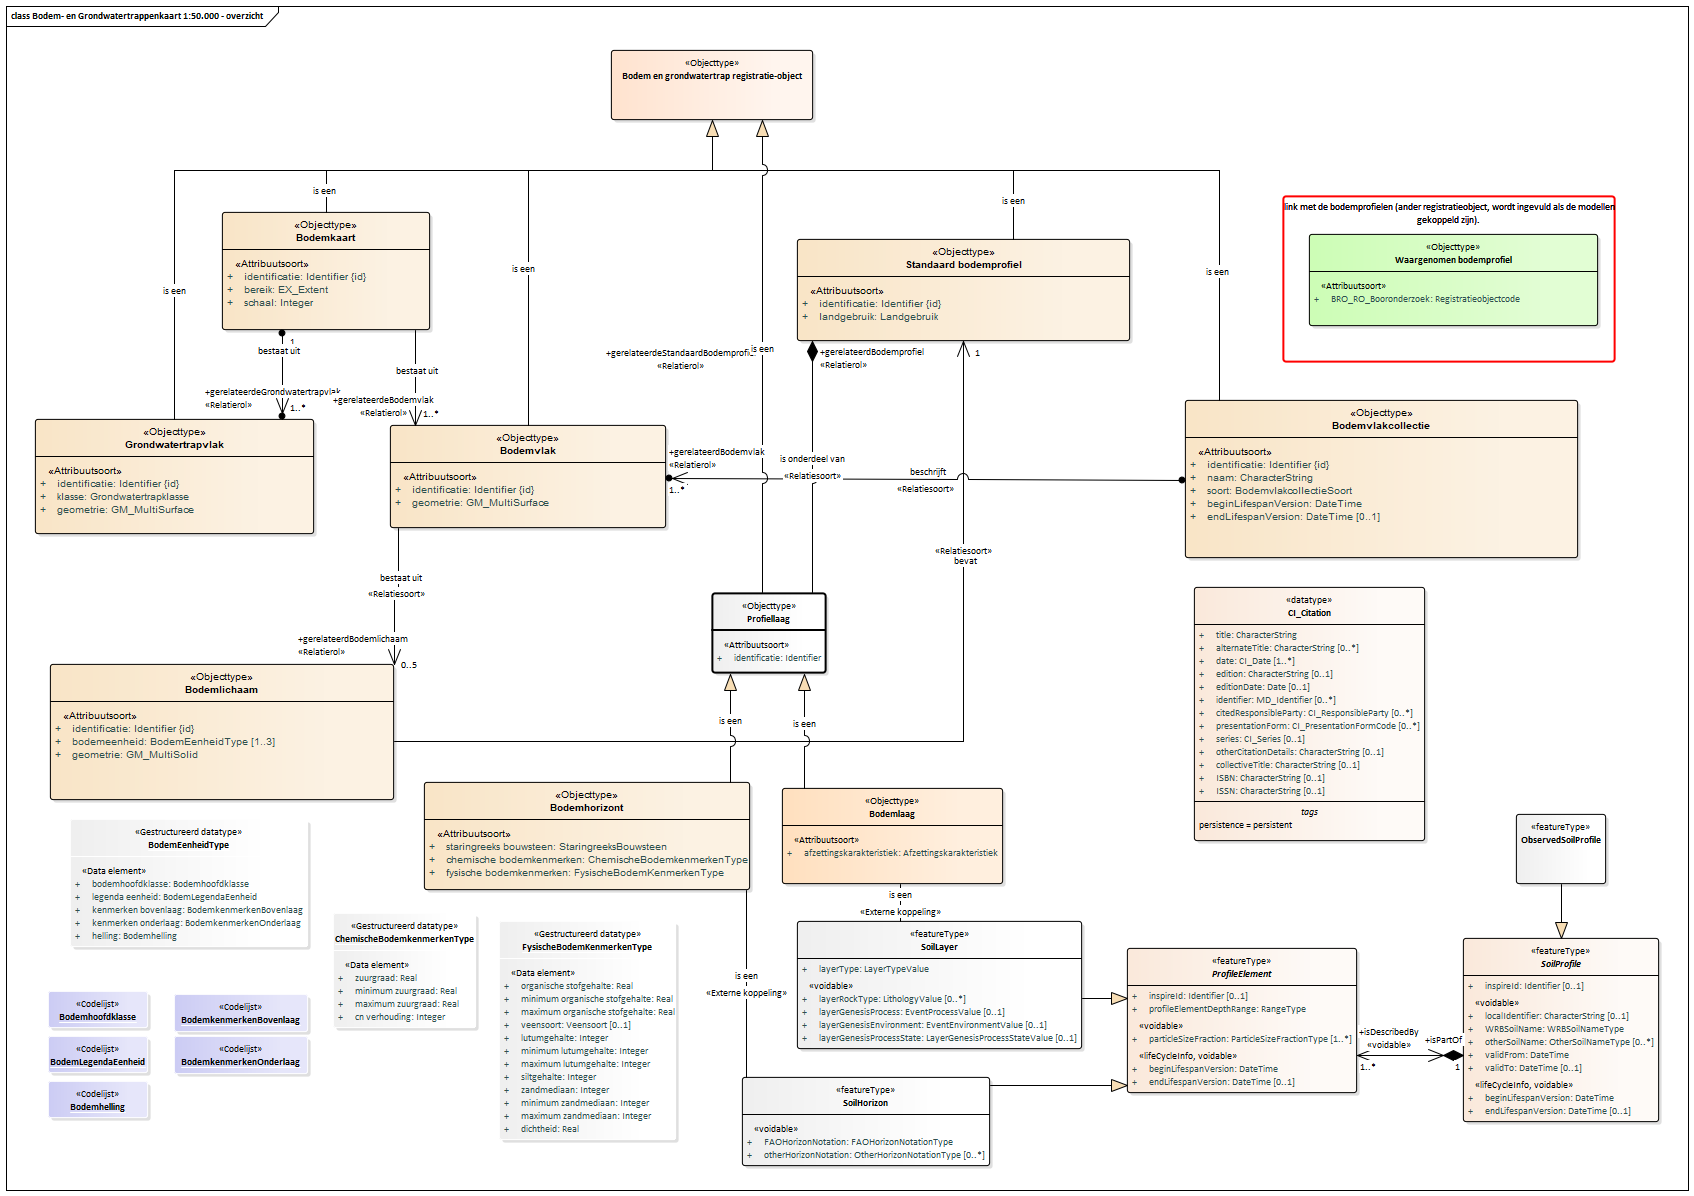
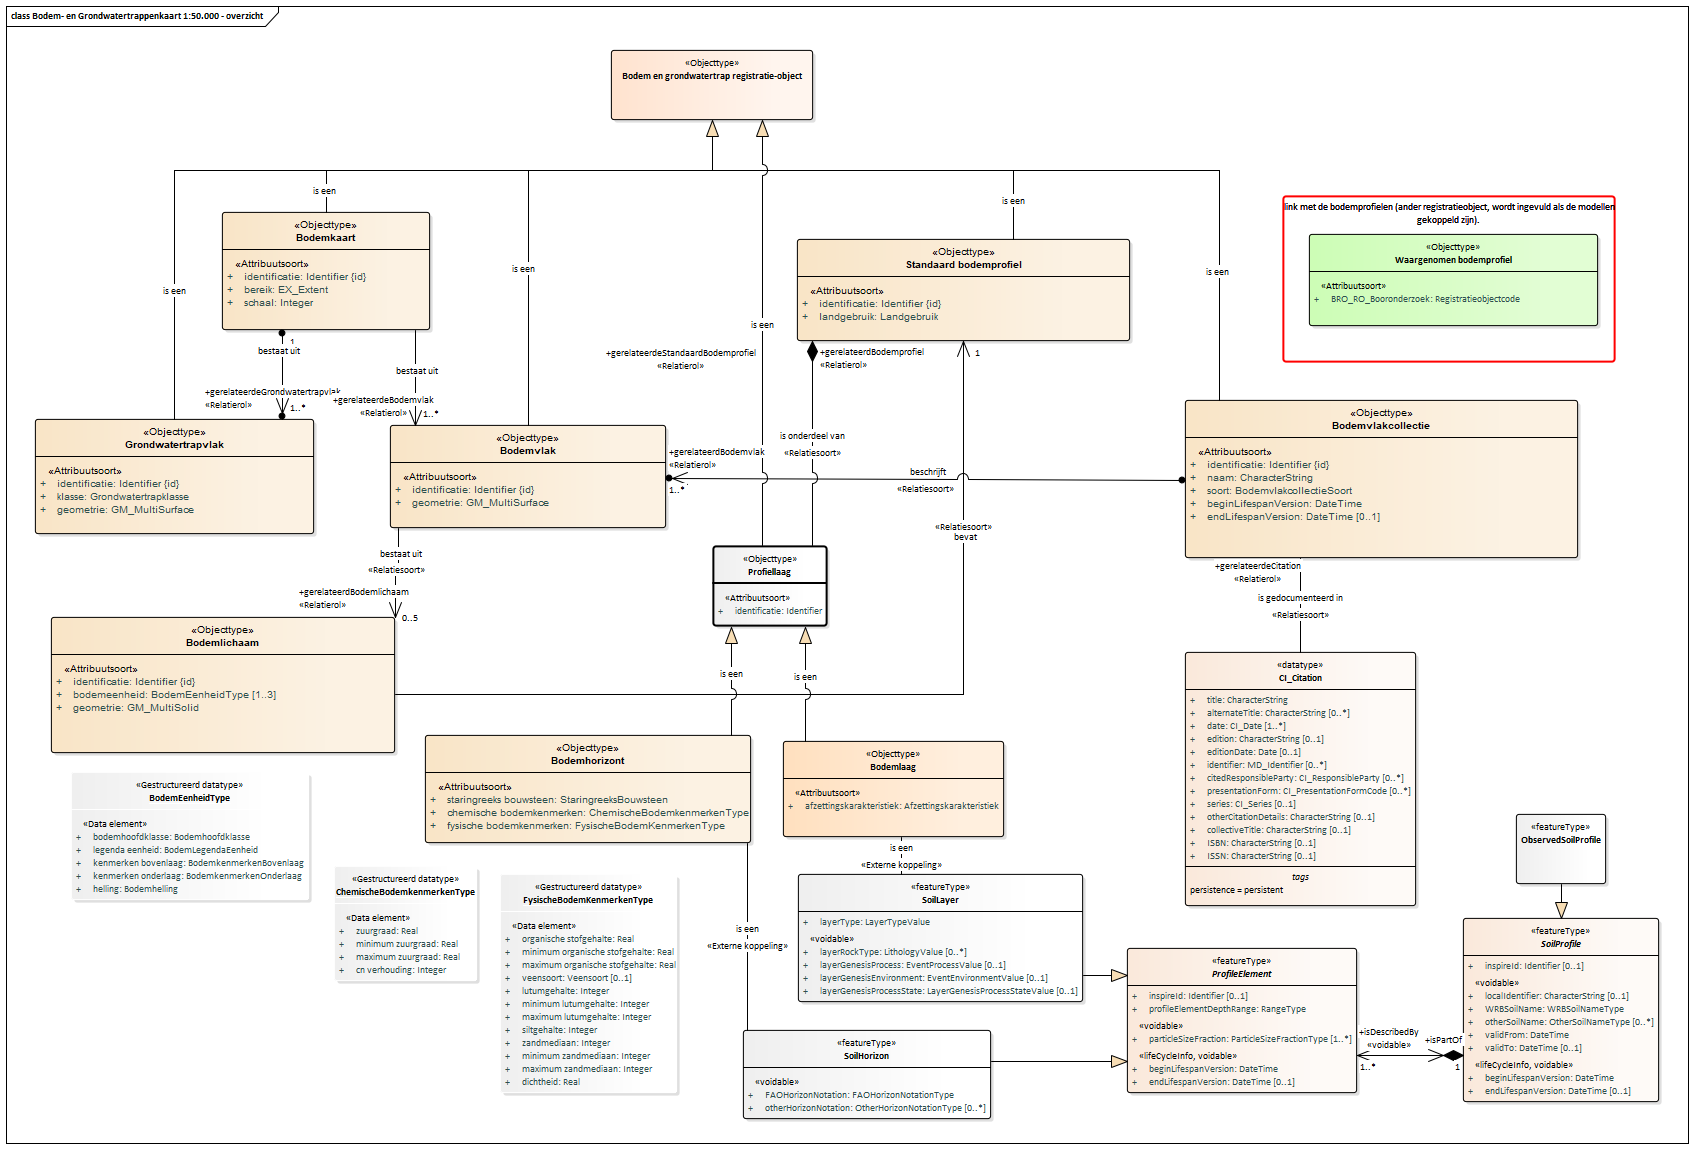
Conceptualmodel-Bodem-enGrondwatertrappenkaartSGM-1.0-1-20180806-20180925-211039

diff --git a/data/SGM-cat.html b/data/SGM-cat.html
@@ -1,31 +1,26 @@
 <h2>Catalogus</h2>
 <p class="note" title="Over deze catalogus">
    Deze catalogus is automatisch samengesteld op basis van het UML model 
-   "Bodem- en Grondwatertrappenkaart (SGM)" door Imvertor 1.47.2 op September 25, 2018 at 19:05:55.
+   "Bodem- en Grondwatertrappenkaart (SGM)" door Imvertor 1.47.2 op September 25, 2018 at 19:10:37.
    <br>
    Wanneer je technische fouten of onvolkomenheden aantreft, geef dit dan door aan <i></i> en geef de code 
-   <i>"Conceptualmodel-Bodem-enGrondwatertrappenkaartSGM-1.0-1-20180806-20180925-210557"</i> door. 
+   <i>"Conceptualmodel-Bodem-enGrondwatertrappenkaartSGM-1.0-1-20180806-20180925-211039"</i> door. 
    
 </p><a class="anchor" name="global_package_Model"></a><section id="global_package_Model">
    <h3>Domein Model</h3>
    <div class="imageinfo overview"><img src="data/Images/EAID_6F1DEB4D_0857_407f_96D1_68CEB4BA18C6.png" usemap="#imagemap-EAID_6F1DEB4D_0857_407f_96D1_68CEB4BA18C6"><map name="imagemap-EAID_6F1DEB4D_0857_407f_96D1_68CEB4BA18C6">
-         <area shape="rect" coords="712,673,826,593" alt="" href="#graph_EAID_0A1B4464_10D3_4b80_8F56_64ECFF79B2BF">
-         <area shape="rect" coords="499,1140,676,921" alt="" href="#graph_EAID_7487B6E9_2821_4136_A6BD_45BCC55D08C4">
-         <area shape="rect" coords="333,1028,476,913" alt="" href="#graph_EAID_E7CD7773_A9F8_46e0_87D3_D98930256054">
-         <area shape="rect" coords="70,947,308,819" alt="" href="#graph_EAID_851EC4B0_D56E_4be9_A97B_2603C79F70A0">
+         <area shape="rect" coords="713,626,827,546" alt="" href="#graph_EAID_0A1B4464_10D3_4b80_8F56_64ECFF79B2BF">
+         <area shape="rect" coords="500,1093,677,874" alt="" href="#graph_EAID_7487B6E9_2821_4136_A6BD_45BCC55D08C4">
+         <area shape="rect" coords="334,981,477,866" alt="" href="#graph_EAID_E7CD7773_A9F8_46e0_87D3_D98930256054">
+         <area shape="rect" coords="71,900,309,772" alt="" href="#graph_EAID_851EC4B0_D56E_4be9_A97B_2603C79F70A0">
          <area shape="rect" coords="611,120,813,50" alt="" href="#graph_EAID_5403E30C_F3F4_4c09_907F_D48BE501C19C">
-         <area shape="rect" coords="48,1118,148,1081" alt="" href="#graph_EAID_155A6898_3C52_4f50_BEEA_5E0FCA823AEB">
-         <area shape="rect" coords="174,1032,308,994" alt="" href="#graph_EAID_21FF9CA4_F85D_4d76_B3FC_6AD3B00C742C">
-         <area shape="rect" coords="174,1074,308,1036" alt="" href="#graph_EAID_5463CF56_01BC_4f0c_88A7_11F479050C47">
-         <area shape="rect" coords="48,1073,148,1036" alt="" href="#graph_EAID_A496AF46_D3AE_4400_8138_91E0BEFFB6A6">
-         <area shape="rect" coords="48,1028,148,991" alt="" href="#graph_EAID_195648A8_101B_4368_86F9_28E280667479">
-         <area shape="rect" coords="782,884,1003,788" alt="" href="#graph_EAID_D6147D13_A2CE_4eac_846C_D98CF51FC411">
-         <area shape="rect" coords="424,890,750,782" alt="" href="#graph_EAID_51B920BD_F7BA_420b_8BC2_F95666441BBE">
+         <area shape="rect" coords="783,837,1004,741" alt="" href="#graph_EAID_D6147D13_A2CE_4eac_846C_D98CF51FC411">
+         <area shape="rect" coords="425,843,751,735" alt="" href="#graph_EAID_51B920BD_F7BA_420b_8BC2_F95666441BBE">
          <area shape="rect" coords="35,534,314,419" alt="" href="#graph_EAID_2F5C99E2_C8D7_4c0d_B6C3_7292ACD90AEE">
          <area shape="rect" coords="222,330,430,212" alt="" href="#graph_EAID_6C32C465_2A2D_4ebd_8809_CFA672B233B2">
          <area shape="rect" coords="797,341,1130,239" alt="" href="#graph_EAID_F7554868_9447_4c85_91F2_85A060A04221">
          <area shape="rect" coords="1309,326,1598,234" alt="" href="#graph_EAID_A1837B5E_AAEC_4abd_AD4E_490E18AC9B51">
-         <area shape="rect" coords="50,800,394,664" alt="" href="#graph_EAID_937AC71F_F454_49a3_8257_4ED3B68B25F1">
+         <area shape="rect" coords="51,753,395,617" alt="" href="#graph_EAID_937AC71F_F454_49a3_8257_4ED3B68B25F1">
          <area shape="rect" coords="1185,558,1578,400" alt="" href="#graph_EAID_D299245E_D76A_4628_9E60_A0D563127253">
          <area shape="rect" coords="390,528,666,425" alt="" href="#graph_EAID_1A0B021D_CECB_4888_896B_045EDB9287FB"></map><p><b>Bodem- en Grondwatertrappenkaart 1:50.000 - overzicht</b></p>
    </div>
@@ -475,6 +470,23 @@
                      
                   </td>
                   <td>De unieke aanduiding van elk Bodemvlak dat beschreven is in de Bodemvlakcollectie.</td>
+               </tr>
+               <tr>
+                  <td>
+                     
+                     <a class="link" href="#global_class_ISO191152006MetadataCorrigendum_CI_Citation">CI_Citation</a>
+                     
+                     [ 1 ]
+                     
+                     <a class="link" href="#detail_association_ISO191152006MetadataCorrigendum_CI_Citation_gerelateerdeCitation">is gedocumenteerd in: gerelateerdeCitation</a>
+                     
+                     Bodemvlakcollectie
+                     [ 1 ]
+                     
+                  </td>
+                  <td>De unieke aanduiding van een gerelateerde CI_Citation waarin de Bodemvlakcollectie
+                     is gedocumenteerd.
+                  </td>
                </tr>
             </tbody>
          </table>
